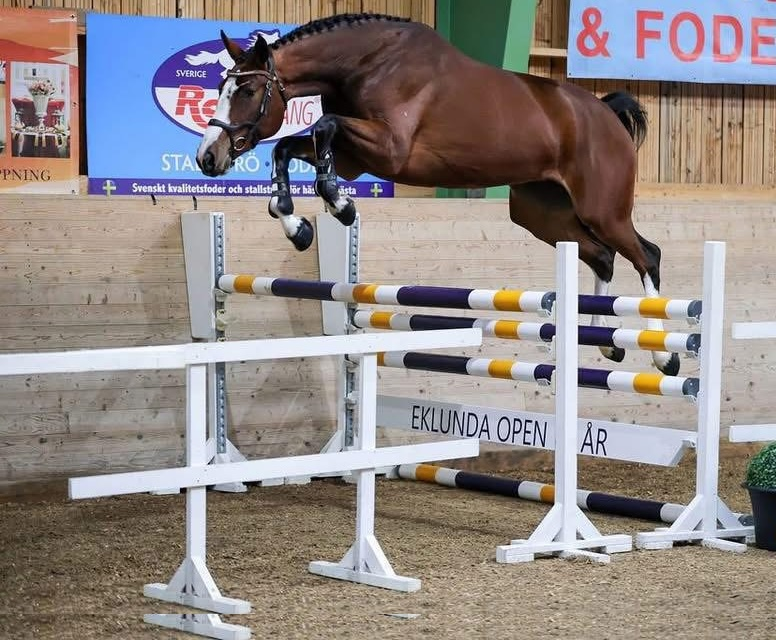
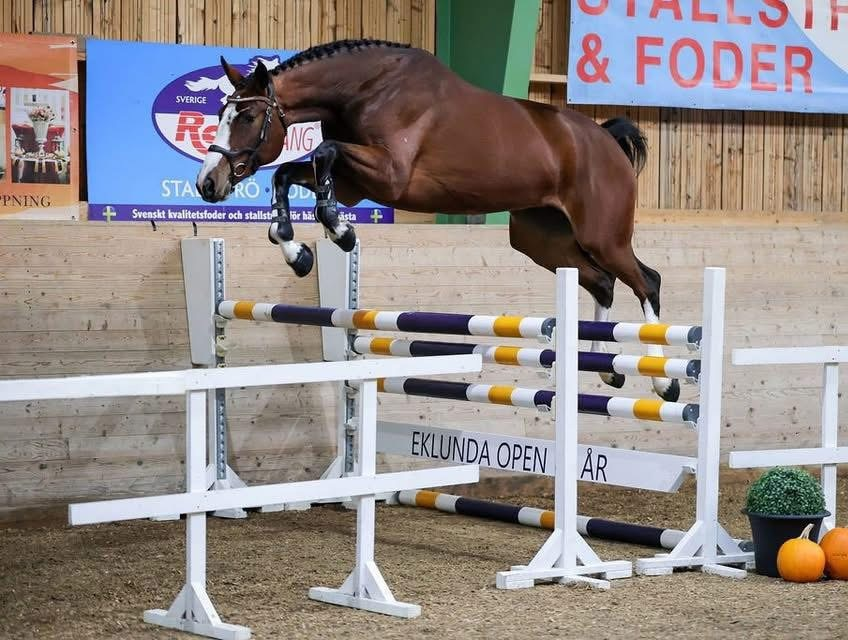
Update index.html and styles.css: modify header structure and adjust background properties

diff --git a/docs/index.html b/docs/index.html
@@ -53,8 +53,16 @@
                     <div class="col-xl-6">
                         <div class="text-center text-white">
                             <div class="homepage-hero-copy">
-                                <h1 class="pt-4"><div class="title-to-fade-in">Stall Stjärnholm</div></h1>
-                                <h4>
+                                <h3 class="pt-4 d-lg-none"><div class="title-to-fade-in">Stall Stjärnholm</div></h3>
+                                <h1 class="pt-4 d-none d-lg-block"><div class="title-to-fade-in">Stall Stjärnholm</div></h1>
+                                <h6 class="d-lg-none">
+                                    <div class="title-to-fade-in">
+                                        <ul class="list-inline mb-2">
+                                            <li class="list-inline-item">Hopphästuppfödning</li>
+                                        </ul>
+                                    </div>
+                                </h6>
+                                <h4 class="d-none d-lg-block">
                                     <div class="title-to-fade-in">
                                         <ul class="list-inline mb-2">
                                             <li class="list-inline-item">Hopphästuppfödning</li>
@@ -64,9 +72,12 @@
                             </div>
                             <br />
                             <!-- Page heading-->
-                            <h2 class="pb-4">
+                            <h6 class="pb-4 d-lg-none">
                                 <div class="subtitle-to-fade-in"><em>Kvalitetsavel för framtidens hopphästar</em></div>
-                            </h2>
+                            </h6>
+                            <h3 class="pb-4 d-none d-lg-block">
+                                <div class="subtitle-to-fade-in"><em>Kvalitetsavel för framtidens hopphästar</em></div>
+                            </h3>
                         </div>
                     </div>
                 </div>

diff --git a/docs/css/styles.css b/docs/css/styles.css
@@ -11385,7 +11385,7 @@ header.masthead .homepage-hero-copy {
 }
 @media (min-width: 1200px) {
   header.masthead {
-    background: url("../assets/img/ny_framsida-alt2.JPG")  no-repeat ;
+    background: url("../assets/img/ny_framsida-alt2.JPG") no-repeat fill;
     background-position: center center;
   }
   header.masthead h1, header.masthead .h1 {